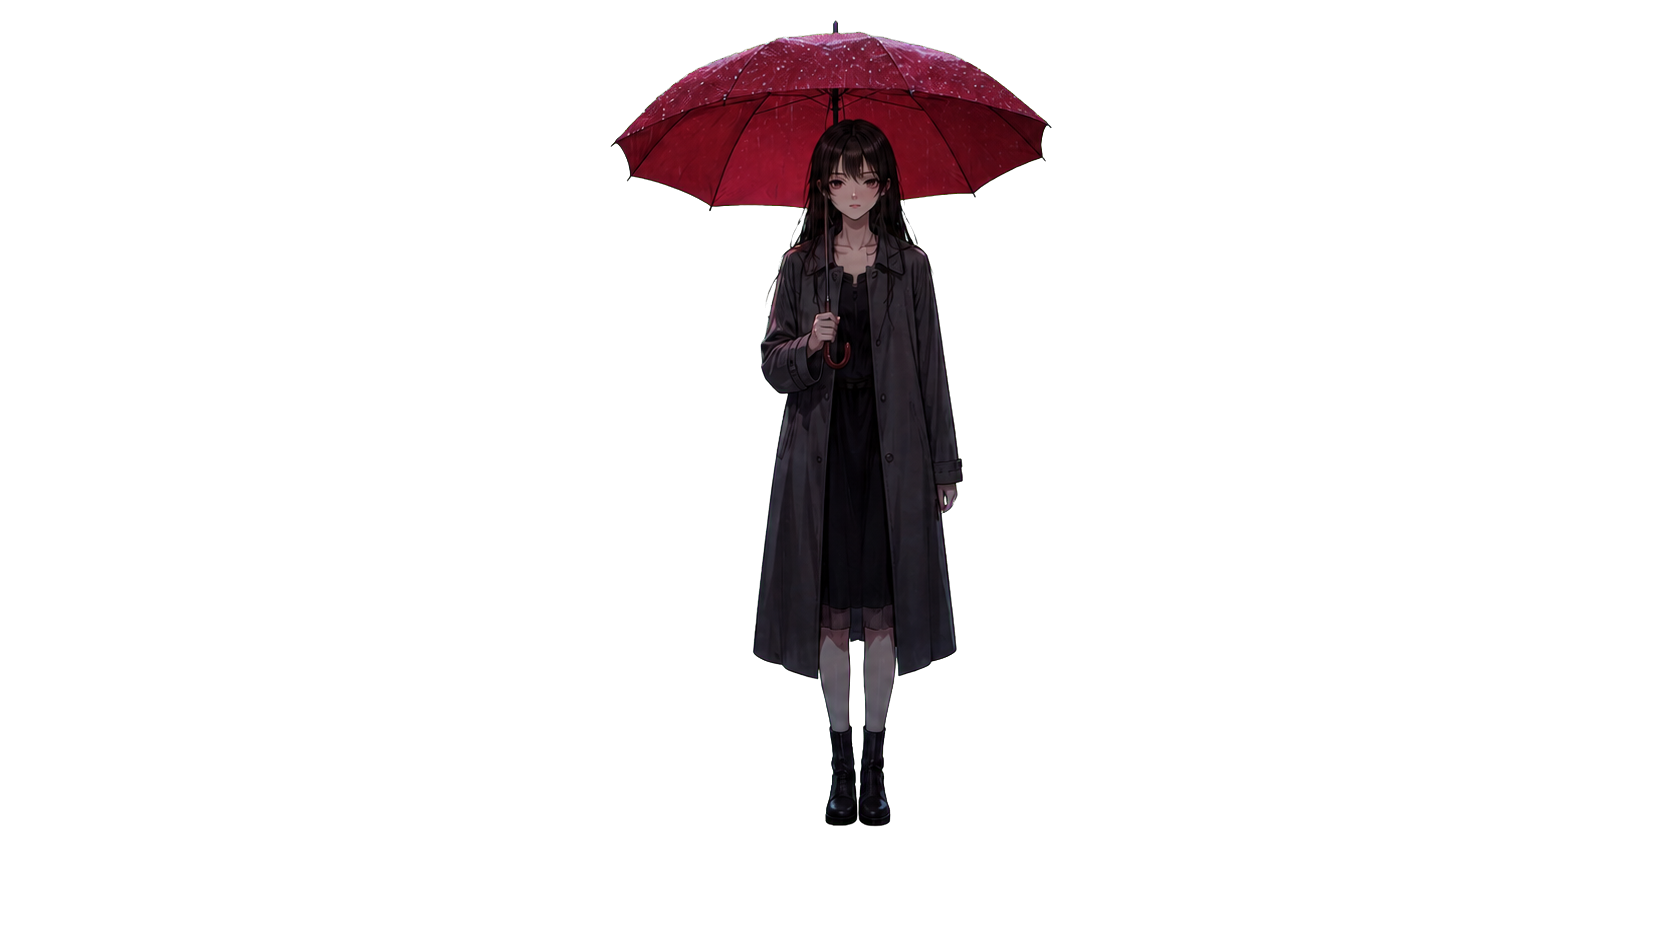
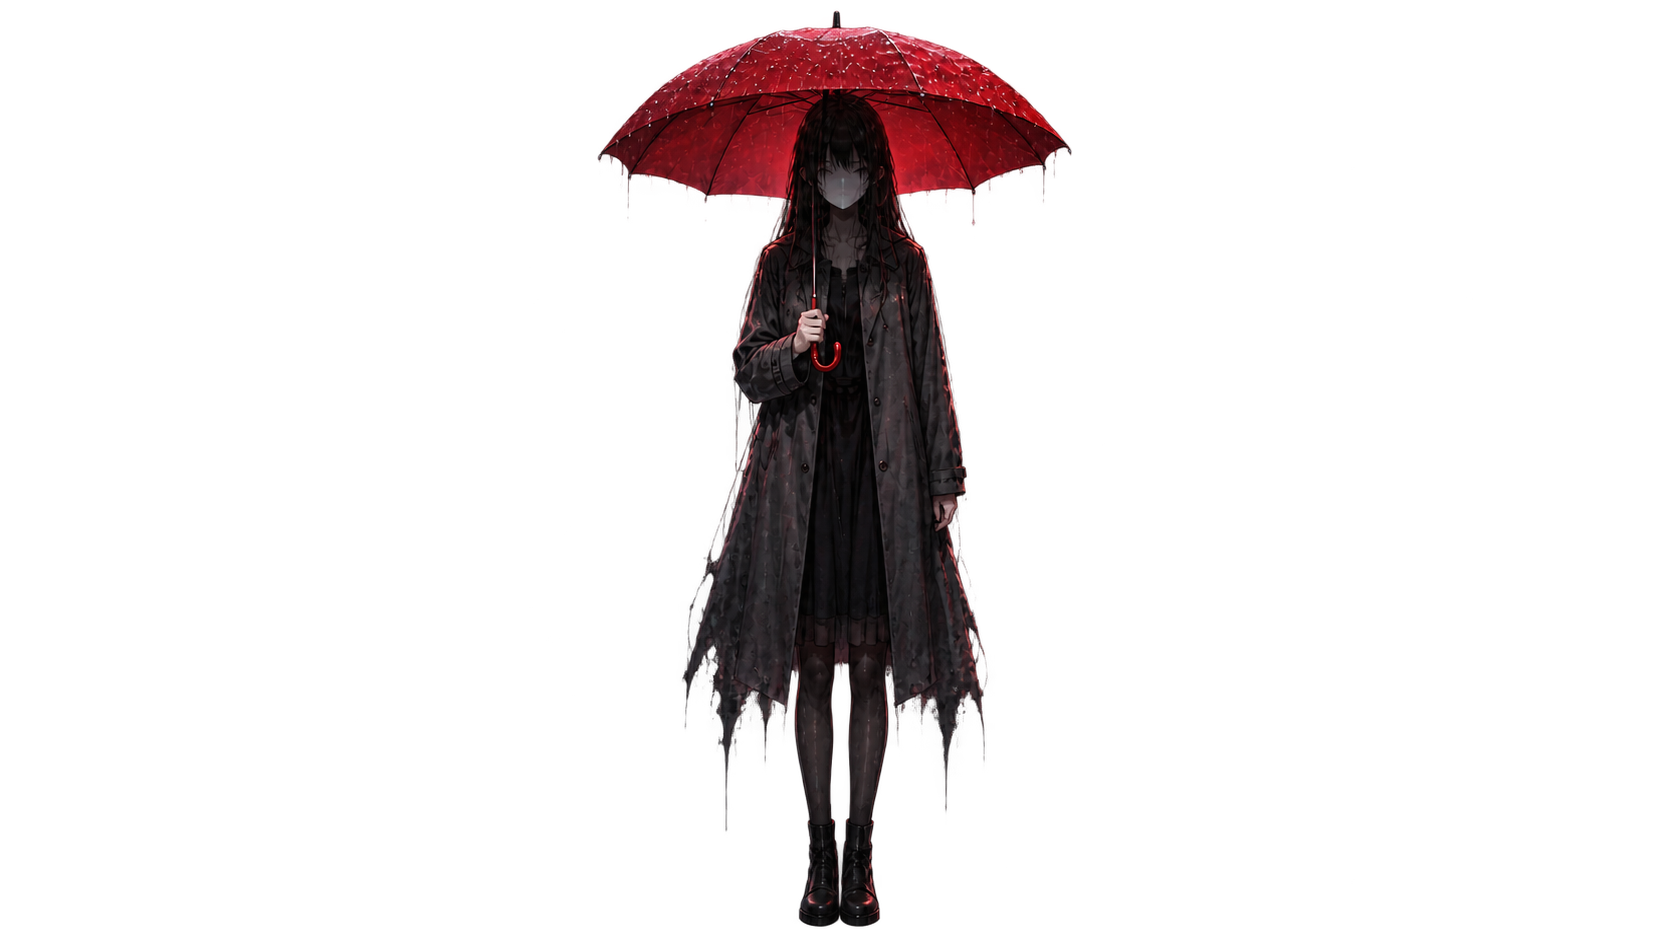
feat: promote M04 B/C anomaly cutout (#300)
* feat: promote M04 B/C anomaly cutout

* fix: align M04 promotion approval baseline

Changed region(s): [[0.3421, 0.0, 0.6531, 0.9862]]

diff --git a/tests/test_m04_anomaly_candidate_promotion.py b/tests/test_m04_anomaly_candidate_promotion.py
@@ -1,0 +1,21 @@
+"""M04 B/C product promotion keeps the approved candidate bytes at the live cutout path."""
+
+from __future__ import annotations
+
+import hashlib
+from pathlib import Path
+
+
+ROOT = Path(__file__).resolve().parents[1]
+CANDIDATE = ROOT / "docs/visual/candidates/M04_ANOMALY_BC_ADAPT_01_20260827.png"
+CANONICAL = ROOT / "assets/anomalies/cutouts/red_umbrella_b_cutout.png"
+
+
+def _sha256(path: Path) -> str:
+    return hashlib.sha256(path.read_bytes()).hexdigest()
+
+
+def test_m04_bc_live_cutout_matches_approved_candidate_bytes() -> None:
+    assert CANDIDATE.is_file()
+    assert CANONICAL.is_file()
+    assert _sha256(CANONICAL) == _sha256(CANDIDATE)

diff --git a/docs/CURRENT_VISUAL_ASSET_CONSUMER_CHECKLIST.md b/docs/CURRENT_VISUAL_ASSET_CONSUMER_CHECKLIST.md
@@ -4,7 +4,7 @@
 > Updated: `2026-08-27`
 > Decision: `D-2026-08-26-RUNTIME-CONSUMER-FIRST-VISUAL-ASSET-GATE`
 > Scope: planning / visual asset requirement inventory
-> Product asset approval: `5 CURRENT ROOT-MANIFEST ENTRIES (M01 Investigation/Recovery backgrounds, B/C, D; M04 Investigation background)`
+> Product asset approval: `6 CURRENT ROOT-MANIFEST ENTRIES (M01 Investigation/Recovery backgrounds, B/C, D; M04 Investigation background, B/C)`
 > Runtime visual validation: `PARTIALLY_VERIFIED` — M04 Investigation Background + LocationPreview 1280×720/1920×1080 is verified by PR #273; the remaining approved M01/M04 consumers still require their own runtime gates.
 > Human QA: `NOT_RUN`
 
@@ -77,7 +77,7 @@ actual consumer
 | `IMG-M04-01` | Dialogue background + current-case preview | `assets/backgrounds/red_alley_entrance.png` | `REUSE_REVIEW` | 오프닝/preview surface. |
 | `IMG-M04-02` | Investigation `ArtLayer/Background` + shared `LocationPreview` | `assets/backgrounds/red_crossroads.png` | `PROJECT_ASSET_APPROVED / IMPLEMENTED / RUNTIME_VERIFIED / HUMAN_QA_PENDING` | `M04_INVESTIGATION_BACKGROUND_ADAPT_01` exact bytes가 canonical PNG를 교체했다. PR #273이 기존 route에서 1280×720/1920×1080 Background·LocationPreview와 배경 관찰성을 검증했다. Human evidence는 별도 Gate다. |
 | `IMG-M04-03` | Recovery `ArtLayer/Background` | `assets/backgrounds/red_recovery.png` | `CANDIDATE_NOT_PROMOTED / REUSE_REVIEW` | #295에서 `M04_RECOVERY_BACKGROUND_ADAPT_01`을 비교했다. 후보는 한국 폐점 골목과 AnomalyVisual용 중앙 여백을 개선하지만 사진적 표면이 잠긴 소프트 애니메 누아르에 미달해 승격하지 않았다. 현행 파일과 별도 B/C·D overlay는 유지한다. Hera live capture는 타 프로젝트 bridge port 점유로 `NOT_RUN`이다. |
-| `IMG-M04-04` | Recovery `AnomalyVisual` B/C | `assets/anomalies/cutouts/red_umbrella_b_cutout.png` with full fallback | `USER_AUTONOMOUSLY_AUTHORIZED_VISUAL_CANDIDATE / PRODUCT_ASSET_PROMOTION_PENDING` | Existing cutout is an identifiable ordinary figure and its full fallback carries scenery/another reflection subject, conflicting with the single `AnomalyVisual` owner. `M04_ANOMALY_BC_ADAPT_01_20260827` is a transparent B/C-only candidate; it has not replaced the canonical cutout or passed runtime/Human QA. |
+| `IMG-M04-04` | Recovery `AnomalyVisual` B/C | `assets/anomalies/cutouts/red_umbrella_b_cutout.png` with full fallback | `PROJECT_ASSET_APPROVED / IMPLEMENTED / RUNTIME_VERIFIED / HUMAN_QA_PENDING` | `M04_ANOMALY_BC_ADAPT_01_20260827` exact bytes가 canonical cutout을 교체했다. 1280×720·1920×1080 actual M04 Recovery `AnomalyVisual`에서 import·resolution·readability를 확인했고, scene/catalog/fallback 경로는 변경하지 않았다. Human QA는 별도 Gate다. |
 | `IMG-M04-05` | Recovery `AnomalyVisual` D | `assets/anomalies/cutouts/red_umbrella_d_cutout.png` with full fallback | `REUSE_REVIEW` | actual high-risk anomaly consumer. |
 
 ### M04 layer caution

diff --git a/docs/visual/candidates/M04_ANOMALY_BC_ADAPT_01_20260827.md b/docs/visual/candidates/M04_ANOMALY_BC_ADAPT_01_20260827.md
@@ -2,7 +2,7 @@
 
 ## Status
 
-`USER_AUTONOMOUSLY_AUTHORIZED_VISUAL_CANDIDATE / PRODUCT_ASSET_PROMOTION_PENDING`
+`PROJECT_ASSET_APPROVED / IMPLEMENTED / RUNTIME_VERIFIED / HUMAN_QA_PENDING`
 
 The sole decision owner authorized continuous current-slice visual work, automatic generation when an actual runtime consumer requires it, and dual preservation in the repository and Notion. This is a visual candidate, not a product-asset promotion.
 
@@ -17,7 +17,7 @@ The sole decision owner authorized continuous current-slice visual work, automat
 
 ## Consumer and visual boundary
 
-- Intended consumer: `scenes/battle_scene.tscn -> CinematicStage/AnomalyPanel/Content/AnomalyVisual` for M04 B/C risk stages.
+- Intended consumer: `scenes/battle_scene.tscn -> CinematicStage/AnomalyPanel/Content/AnomalyVisual` for M04 B/C risk stages, retaining the existing `KEEP_ASPECT_COVERED` presentation.
 - The candidate is one centered, anonymous human-like apparition beneath a crimson umbrella. Its small pale face-void and restrained dissolving coat edge establish an anomalous read without declaring a solution or a victim identity.
 - It contains no environment, reflection, other figure, text, UI, clue, footprint, M01 material, or D-stage escalation. Existing background, HUD, and separate D visual retain their owners.
 
@@ -34,4 +34,4 @@ The first B/C generation attempt produced a 24-bit RGB PNG with a visual checker
 
 ## Promotion boundary
 
-This candidate does not replace `assets/anomalies/cutouts/red_umbrella_b_cutout.png`, alter fallback paths, add scene/catalog/script wiring, grant `PROJECT_ASSET_APPROVED`, or pass 1280x720/1920x1080 runtime readability, accessibility, or Human QA. D must be evaluated separately after the B/C identity is fixed.
+Under GitHub Issue #299, the candidate's exact bytes now replace `assets/anomalies/cutouts/red_umbrella_b_cutout.png`. Existing Scene/catalog/fallback wiring is unchanged. Actual graphical Godot captures at 1280x720 and 1920x1080 resolved this cutout in the M04 Recovery `AnomalyVisual`; their hash and runtime result are recorded in the root asset manifest. Human visual/accessibility QA is still pending, and D must be evaluated separately after the B/C identity is fixed.

diff --git a/docs/qa/M04_BC_ANOMALY_PROMOTION_RUNTIME_20260827.md b/docs/qa/M04_BC_ANOMALY_PROMOTION_RUNTIME_20260827.md
@@ -1,0 +1,20 @@
+# M04 B/C Anomaly Promotion Runtime Evidence
+
+- GitHub Issue: #299.
+- Canonical asset: `assets/anomalies/cutouts/red_umbrella_b_cutout.png`.
[1 lines of base64/hex data omitted]
+- Actual consumer: `BattleScene/CinematicStage/AnomalyPanel/Content/AnomalyVisual` resolved the canonical B/C cutout after Godot reimport.
+- Existing presentation retained: `KEEP_ASPECT_COVERED`; no Scene, catalog, fallback, UI, or gameplay change was introduced.
+
+| Launch resolution | Capture | SHA-256 | Result |
+|---|---|---|---|
[2 lines of base64/hex data omitted]
+
+The rendered captures show the centered red umbrella, masked face-void, and dissolving coat inside the existing Anomaly panel without a baked environment or UI. The broader M04 background is unchanged and Human QA remains `NOT_RUN`.
+
+## Incident -> Solution -> Lesson
+
+- Incident: a first generation supplied a checkerboard RGB image instead of transparent pixels; the first graphical test then exposed an incorrect `KEEP_ASPECT_CENTERED` test expectation. A first import also produced broad regenerated `.import`/`.uid` worktree noise.
+- Solution: reject the RGB output, validate alpha before storage, preserve the scene's actual `KEEP_ASPECT_COVERED` behavior, capture the real M04 consumer at both target resolutions, and transfer only the reviewed source asset, evidence, and test files to a clean worktree.
+- Lesson: `NO_NEW_REUSE_LEARNING`; this is a project-local asset-promotion verification pattern, not a Base promotion candidate.

diff --git a/docs/CURRENT_VISUAL_WORK_ORDER.md b/docs/CURRENT_VISUAL_WORK_ORDER.md
@@ -206,7 +206,7 @@ actual Scene / Texture consumer
 21. M04 release-near visual/audio/VFX implementation — separate later authorization
 22. M04 Human player-experience QA — separate later gate
 23. `M04_RECOVERY_BACKGROUND_ADAPT_01` one-image candidate — `CANDIDATE_NOT_PROMOTED / REUSE_REVIEW`; it improves the Korean closed-shop geography and preserves the `AnomalyVisual` zone, but its literal photographic surface misses the locked soft-anime-noir treatment. Preserve `red_recovery.png` and the separate transparent B/C·D overlays; any re-entry candidate must improve both style and layer separation.
-24. `M04_ANOMALY_BC_ADAPT_01_20260827` one-image candidate — `USER_AUTONOMOUSLY_AUTHORIZED_VISUAL_CANDIDATE / PRODUCT_ASSET_PROMOTION_PENDING`; replace-required pixel review found the current B/C ordinary-person cutout and scenic fallback conflict with the single `AnomalyVisual` owner. Compare this alpha candidate before any canonical cutout promotion; D remains a separate later identity-escalation review.
+24. `M04_ANOMALY_BC_ADAPT_01_20260827` one-image candidate — `PROJECT_ASSET_APPROVED / IMPLEMENTED / RUNTIME_VERIFIED`; exact bytes now occupy the existing B/C cutout path and passed actual M04 Recovery `AnomalyVisual` captures at 1280×720/1920×1080. D remains a separate later identity-escalation review; Human QA remains pending.
 ```
 
 ## 7. Approval boundary

diff --git a/docs/qa/M04_ANOMALY_PIXEL_REVIEW_20260827.md b/docs/qa/M04_ANOMALY_PIXEL_REVIEW_20260827.md
@@ -2,7 +2,7 @@
 
 ## Scope
 
-GitHub Issue #297 reviews the actual M04 risk-stage texture route only. `scripts/ui/ui_asset_catalog.gd` maps B/C to `red_umbrella_b_cutout` and D to `red_umbrella_d_cutout`; `scripts/ui/scene_presentation.gd::apply_anomaly()` loads the transparent cutout first and only then falls back to the full RGB image. `battle_scene.tscn` gives both stages the one `CinematicStage/AnomalyPanel/Content/AnomalyVisual` owner using `KEEP_ASPECT_CENTERED`.
+GitHub Issue #297 reviews the actual M04 risk-stage texture route only. `scripts/ui/ui_asset_catalog.gd` maps B/C to `red_umbrella_b_cutout` and D to `red_umbrella_d_cutout`; `scripts/ui/scene_presentation.gd::apply_anomaly()` loads the transparent cutout first and only then falls back to the full RGB image. `battle_scene.tscn` gives both stages the one `CinematicStage/AnomalyPanel/Content/AnomalyVisual` owner using the existing `KEEP_ASPECT_COVERED` presentation.
 
 ## Findings
 
